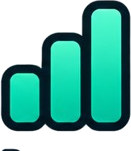
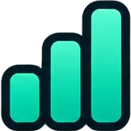
Polish supplied navigation sprite layout

diff --git a/docs/index.html b/docs/index.html
@@ -18,13 +18,13 @@
         <div><strong>MorseReceive</strong><span>Listen. Copy. Improve.</span></div>
       </div>
       <nav class="side-nav" aria-label="Primary navigation">
-        <button class="nav-item active" data-view="practice"><span class="nav-icon" aria-hidden="true"><img src="assets/nav-icons/practice.png" alt=""></span><span class="nav-label">Practice</span></button>
-        <button class="nav-item" data-view="listen-only"><span class="nav-icon" aria-hidden="true"><img src="assets/nav-icons/zen.png" alt=""></span><span class="nav-label">Zen Mode</span></button>
-        <button class="nav-item" data-view="progress"><span class="nav-icon" aria-hidden="true"><img src="assets/nav-icons/progress.png" alt=""></span><span class="nav-label">Progress</span></button>
-        <button class="nav-item" data-view="alphabet"><span class="nav-icon" aria-hidden="true"><img src="assets/nav-icons/alphabet.png" alt=""></span><span class="nav-label">Morse Code Alphabet</span></button>
-        <button class="nav-item" data-view="sending"><span class="nav-icon" aria-hidden="true"><img src="assets/nav-icons/sending.png" alt=""></span><span class="nav-label">Sending</span></button>
-        <button class="nav-item" data-view="settings"><span class="nav-icon" aria-hidden="true"><img src="assets/nav-icons/settings.png" alt=""></span><span class="nav-label">Settings</span></button>
-        <button class="nav-item" data-view="account"><span class="nav-icon" aria-hidden="true"><img src="assets/nav-icons/account.png" alt=""></span><span class="nav-label">Account</span></button>
+        <button class="nav-item active" data-view="practice"><span class="nav-icon" aria-hidden="true"><img src="assets/nav-icons/practice.png?v=2" alt=""></span><span class="nav-label">Practice</span></button>
+        <button class="nav-item" data-view="listen-only"><span class="nav-icon" aria-hidden="true"><img src="assets/nav-icons/zen.png?v=2" alt=""></span><span class="nav-label">Zen Mode</span></button>
+        <button class="nav-item" data-view="progress"><span class="nav-icon" aria-hidden="true"><img src="assets/nav-icons/progress.png?v=2" alt=""></span><span class="nav-label">Progress</span></button>
+        <button class="nav-item" data-view="alphabet"><span class="nav-icon" aria-hidden="true"><img src="assets/nav-icons/alphabet.png?v=2" alt=""></span><span class="nav-label">Morse Code Alphabet</span></button>
+        <button class="nav-item" data-view="sending"><span class="nav-icon" aria-hidden="true"><img src="assets/nav-icons/sending.png?v=2" alt=""></span><span class="nav-label">Sending</span></button>
+        <button class="nav-item" data-view="settings"><span class="nav-icon" aria-hidden="true"><img src="assets/nav-icons/settings.png?v=2" alt=""></span><span class="nav-label">Settings</span></button>
+        <button class="nav-item" data-view="account"><span class="nav-icon" aria-hidden="true"><img src="assets/nav-icons/account.png?v=2" alt=""></span><span class="nav-label">Account</span></button>
       </nav>
       <div class="sidebar-note">Train your ear one clean character at a time.</div>
     </aside>

diff --git a/index.html b/index.html
@@ -18,13 +18,13 @@
         <div><strong>MorseReceive</strong><span>Listen. Copy. Improve.</span></div>
       </div>
       <nav class="side-nav" aria-label="Primary navigation">
-        <button class="nav-item active" data-view="practice"><span class="nav-icon" aria-hidden="true"><img src="assets/nav-icons/practice.png" alt=""></span><span class="nav-label">Practice</span></button>
-        <button class="nav-item" data-view="listen-only"><span class="nav-icon" aria-hidden="true"><img src="assets/nav-icons/zen.png" alt=""></span><span class="nav-label">Zen Mode</span></button>
-        <button class="nav-item" data-view="progress"><span class="nav-icon" aria-hidden="true"><img src="assets/nav-icons/progress.png" alt=""></span><span class="nav-label">Progress</span></button>
-        <button class="nav-item" data-view="alphabet"><span class="nav-icon" aria-hidden="true"><img src="assets/nav-icons/alphabet.png" alt=""></span><span class="nav-label">Morse Code Alphabet</span></button>
-        <button class="nav-item" data-view="sending"><span class="nav-icon" aria-hidden="true"><img src="assets/nav-icons/sending.png" alt=""></span><span class="nav-label">Sending</span></button>
-        <button class="nav-item" data-view="settings"><span class="nav-icon" aria-hidden="true"><img src="assets/nav-icons/settings.png" alt=""></span><span class="nav-label">Settings</span></button>
-        <button class="nav-item" data-view="account"><span class="nav-icon" aria-hidden="true"><img src="assets/nav-icons/account.png" alt=""></span><span class="nav-label">Account</span></button>
+        <button class="nav-item active" data-view="practice"><span class="nav-icon" aria-hidden="true"><img src="assets/nav-icons/practice.png?v=2" alt=""></span><span class="nav-label">Practice</span></button>
+        <button class="nav-item" data-view="listen-only"><span class="nav-icon" aria-hidden="true"><img src="assets/nav-icons/zen.png?v=2" alt=""></span><span class="nav-label">Zen Mode</span></button>
+        <button class="nav-item" data-view="progress"><span class="nav-icon" aria-hidden="true"><img src="assets/nav-icons/progress.png?v=2" alt=""></span><span class="nav-label">Progress</span></button>
+        <button class="nav-item" data-view="alphabet"><span class="nav-icon" aria-hidden="true"><img src="assets/nav-icons/alphabet.png?v=2" alt=""></span><span class="nav-label">Morse Code Alphabet</span></button>
+        <button class="nav-item" data-view="sending"><span class="nav-icon" aria-hidden="true"><img src="assets/nav-icons/sending.png?v=2" alt=""></span><span class="nav-label">Sending</span></button>
+        <button class="nav-item" data-view="settings"><span class="nav-icon" aria-hidden="true"><img src="assets/nav-icons/settings.png?v=2" alt=""></span><span class="nav-label">Settings</span></button>
+        <button class="nav-item" data-view="account"><span class="nav-icon" aria-hidden="true"><img src="assets/nav-icons/account.png?v=2" alt=""></span><span class="nav-label">Account</span></button>
       </nav>
       <div class="sidebar-note">Train your ear one clean character at a time.</div>
     </aside>
